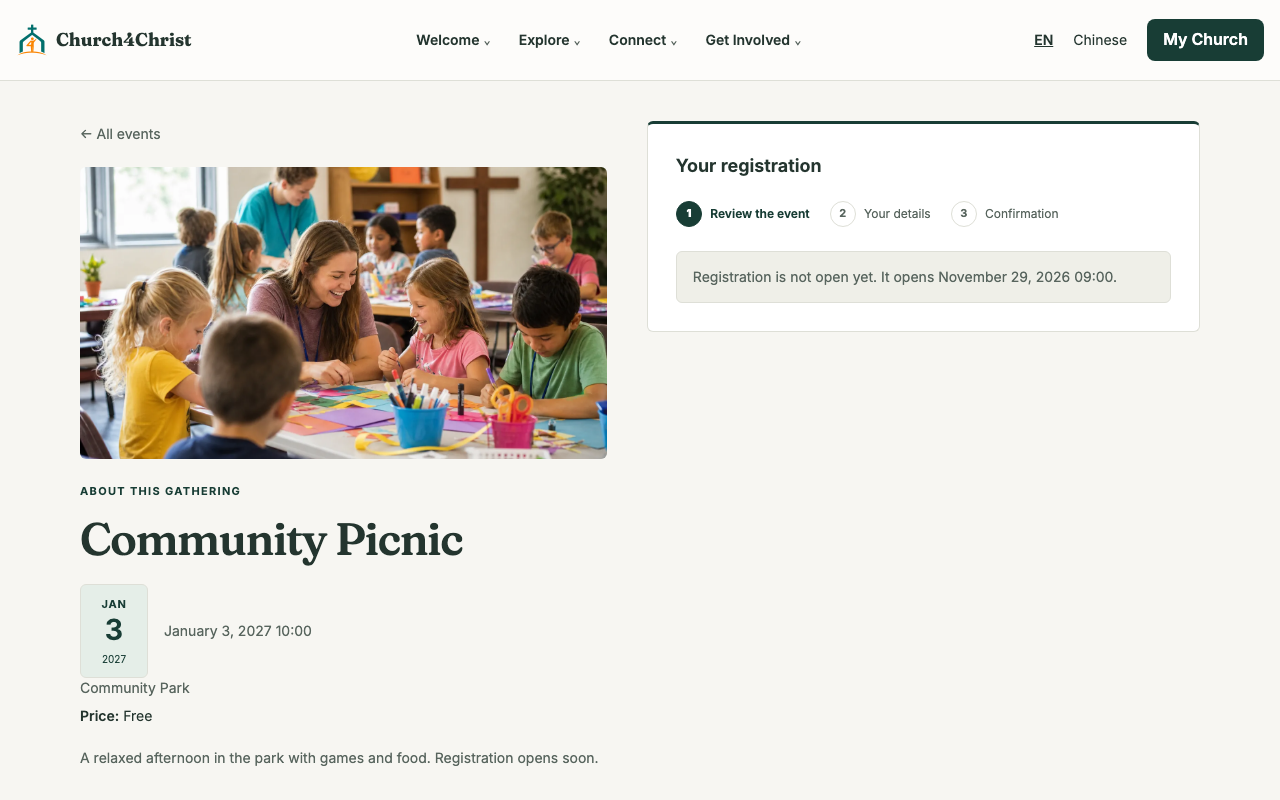
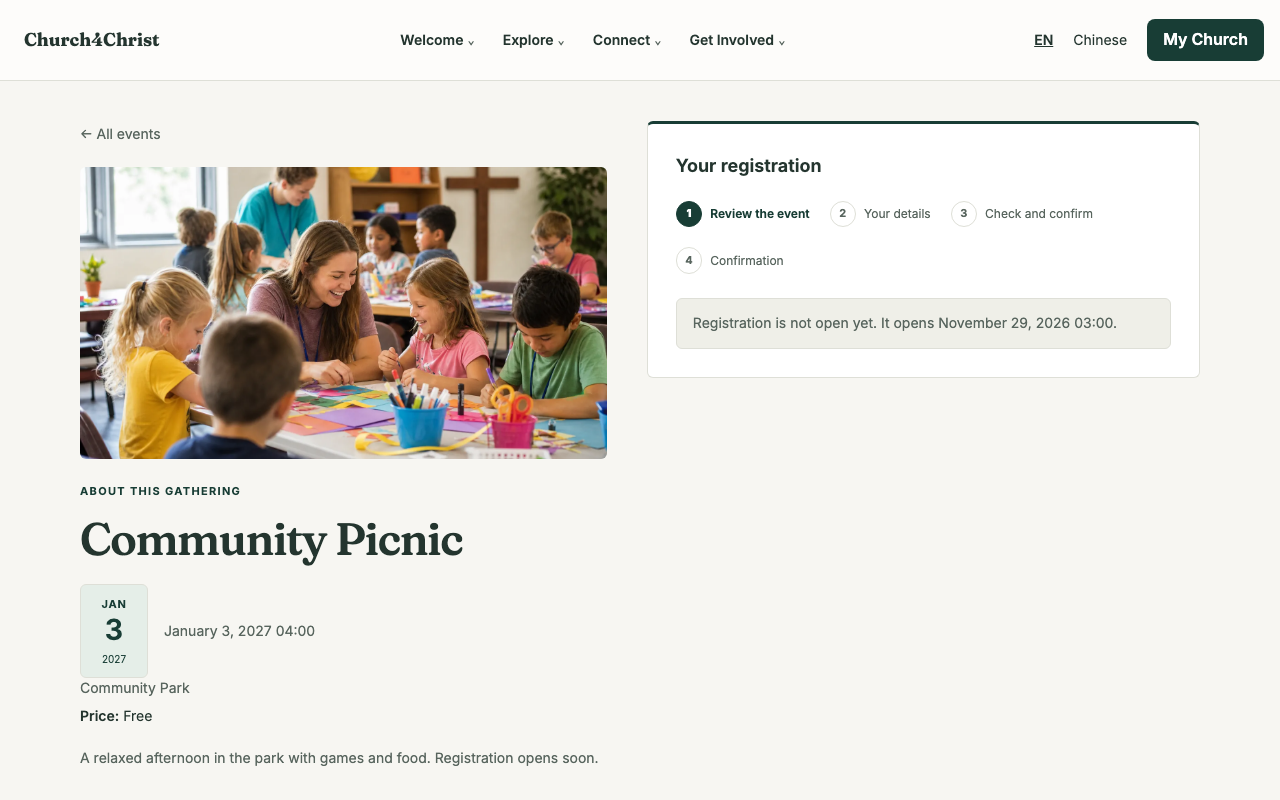
feat(registration): party and review captures, wider manage layout, one-place copy, church time on registration pages
The screenshot harness gains scripted steps (click, fill, submit, wait), a final-path check
and a selector anchor, and the registration rows now cover the party form, the review page,
the manage page (desktop and 375px) and the admin editor. Registration pages show event
times in the church's time zone like the emails do, the manage page lays details and
people side by side on wide screens, and a single remaining place reads naturally.

diff --git a/src/lib/regViewHtml.ts b/src/lib/regViewHtml.ts
@@ -210,8 +210,9 @@ export function renderRegistrationView(view: RegistrationView, o: RenderOptions)
     }${event.notes ? `<div class="reg-notes"><h2>${esc(L(lb, 'register.manage.notes'))}</h2><p>${esc(event.notes)}</p></div>` : ''}</section>`,
   );
 
-  // People.
-  out.push(
+  // People and answers sit side by side with the details on wide screens.
+  const side: string[] = [];
+  side.push(
     `<section class="reg-card"><h2>${esc(L(lb, 'register.manage.peopleHeading'))}</h2><ul class="reg-people">${view.attendees
       .map((a) => {
         if (!a.active) {
@@ -229,12 +230,13 @@ export function renderRegistrationView(view: RegistrationView, o: RenderOptions)
   );
 
   if (view.answers.length > 0) {
-    out.push(
+    side.push(
       `<section class="reg-card"><h2>${esc(L(lb, 'register.manage.answersHeading'))}</h2><dl class="reg-facts">${view.answers
         .map((a) => `<div><dt>${esc(a.label)}</dt><dd>${esc(a.value)}</dd></div>`)
         .join('')}</dl></section>`,
     );
   }
+  out.push(`<div class="reg-side">${side.join('')}</div>`);
 
   // Edit form.
   if (view.canEdit) {

diff --git a/test/e2e/registration.e2e.test.ts b/test/e2e/registration.e2e.test.ts
@@ -483,7 +483,7 @@ describe('Registration on D1: a family signs up, reviews, manages and cancels on
     await register(...MEMBERS[3]);
     const cookie = await sessionCookie(...SARAH);
     const formPage = await (await get('/en/register/920', { cookie })).text();
-    expect(formPage).toContain('Only 1 places left.');
+    expect(formPage).toContain('Only 1 place left.');
     const base = hiddenFieldsOf(formPage, '/en/register/920').filter(([n]) => n !== 'step');
     const review = await (await post('/en/register/920', formBody([...base, ['step', 'review'], ['person_name_1', 'Mia'], ['921', 'Main dish']]), { cookie })).text();
     expect(review).toContain('data-waitlist-party');

diff --git a/src/i18n/hi.ts b/src/i18n/hi.ts
@@ -2983,6 +2983,7 @@ const dict: Partial<Record<keyof typeof en, string>> = {
   'register.party.add': 'एक और व्यक्ति जोड़ें',
   'register.party.remove': 'हटाएँ',
   'register.seats.only': 'केवल {count} स्थान बचे हैं।',
+  'register.seats.one': 'केवल 1 स्थान बचा है।',
   'register.seats.largerWaitlist': 'बड़ा समूह एक साथ प्रतीक्षा सूची में जाएगा।',
   'register.manage.title': 'आपका पंजीकरण',
   'register.manage.confirmation': 'पुष्टि संख्या',

diff --git a/src/i18n/ko.ts b/src/i18n/ko.ts
@@ -2981,6 +2981,7 @@ const dict: Partial<Record<keyof typeof en, string>> = {
   'register.party.add': '다른 사람 추가',
   'register.party.remove': '삭제',
   'register.seats.only': '남은 자리는 {count}석뿐입니다.',
+  'register.seats.one': '남은 자리는 1석뿐입니다.',
   'register.seats.largerWaitlist': '인원이 더 많은 그룹은 함께 대기자 명단에 올라갑니다.',
   'register.manage.title': '내 등록',
   'register.manage.confirmation': '확인 번호',

diff --git a/src/i18n/ja.ts b/src/i18n/ja.ts
@@ -2981,6 +2981,7 @@ const dict: Partial<Record<keyof typeof en, string>> = {
   "register.party.add": "もう1人追加",
   "register.party.remove": "削除",
   "register.seats.only": "残りは{count}席のみです。",
+  "register.seats.one": "残りは1席のみです。",
   "register.seats.largerWaitlist": "人数が多いグループはまとめてキャンセル待ちになります。",
   "register.manage.title": "お申込み内容",
   "register.manage.confirmation": "確認番号",

diff --git a/src/i18n/fr.ts b/src/i18n/fr.ts
@@ -2982,6 +2982,7 @@ const dict: Partial<Record<keyof typeof en, string>> = {
   "register.party.add": "Ajouter une autre personne",
   "register.party.remove": "Retirer",
   "register.seats.only": "Il ne reste que {count} places.",
+  "register.seats.one": "Il ne reste qu’1 place.",
   "register.seats.largerWaitlist": "Un groupe plus important rejoindra ensemble la liste d’attente.",
   "register.manage.title": "Votre inscription",
   "register.manage.confirmation": "Numéro de confirmation",

diff --git a/src/i18n/de.ts b/src/i18n/de.ts
@@ -2981,6 +2981,7 @@ const dict: Partial<Record<keyof typeof en, string>> = {
   'register.party.add': 'Weitere Person hinzufügen',
   'register.party.remove': 'Entfernen',
   'register.seats.only': 'Nur noch {count} Plätze frei.',
+  'register.seats.one': 'Nur noch 1 Platz frei.',
   'register.seats.largerWaitlist': 'Eine größere Gruppe kommt gemeinsam auf die Warteliste.',
   'register.manage.title': 'Deine Anmeldung',
   'register.manage.confirmation': 'Bestätigungsnummer',

diff --git a/src/i18n/ms.ts b/src/i18n/ms.ts
@@ -2981,6 +2981,7 @@ const dict: Partial<Record<keyof typeof en, string>> = {
   'register.party.add': 'Tambah orang lain',
   'register.party.remove': 'Buang',
   'register.seats.only': 'Hanya tinggal {count} tempat.',
+  'register.seats.one': 'Hanya tinggal 1 tempat.',
   'register.seats.largerWaitlist': 'Kumpulan yang lebih besar akan masuk senarai menunggu bersama-sama.',
   'register.manage.title': 'Pendaftaran anda',
   'register.manage.confirmation': 'Nombor pengesahan',

diff --git a/src/i18n/vi.ts b/src/i18n/vi.ts
@@ -2980,6 +2980,7 @@ const dict: Partial<Record<keyof typeof en, string>> = {
   "register.party.add": "Thêm một người nữa",
   "register.party.remove": "Xóa",
   "register.seats.only": "Chỉ còn {count} chỗ.",
+  "register.seats.one": "Chỉ còn 1 chỗ.",
   "register.seats.largerWaitlist": "Một nhóm đông hơn sẽ cùng vào danh sách chờ.",
   "register.manage.title": "Đăng ký của bạn",
   "register.manage.confirmation": "Mã xác nhận",

diff --git a/src/i18n/es.ts b/src/i18n/es.ts
@@ -2981,6 +2981,7 @@ const dict: Partial<Record<keyof typeof en, string>> = {
   "register.party.add": "Añadir otra persona",
   "register.party.remove": "Quitar",
   "register.seats.only": "Solo quedan {count} plazas.",
+  "register.seats.one": "Solo queda 1 plaza.",
   "register.seats.largerWaitlist": "Un grupo más grande pasará junto a la lista de espera.",
   "register.manage.title": "Tu inscripción",
   "register.manage.confirmation": "Número de confirmación",

diff --git a/src/i18n/id.ts b/src/i18n/id.ts
@@ -2982,6 +2982,7 @@ const dict: Partial<Record<keyof typeof en, string>> = {
   "register.party.add": "Tambah orang lain",
   "register.party.remove": "Hapus",
   "register.seats.only": "Hanya tersisa {count} tempat.",
+  "register.seats.one": "Hanya tersisa 1 tempat.",
   "register.seats.largerWaitlist": "Rombongan yang lebih besar akan masuk daftar tunggu bersama.",
   "register.manage.title": "Pendaftaran Anda",
   "register.manage.confirmation": "Nomor konfirmasi",

diff --git a/src/i18n/pt.ts b/src/i18n/pt.ts
@@ -2981,6 +2981,7 @@ const dict: Partial<Record<keyof typeof en, string>> = {
   "register.party.add": "Adicionar outra pessoa",
   "register.party.remove": "Remover",
   "register.seats.only": "Restam apenas {count} vagas.",
+  "register.seats.one": "Resta apenas 1 vaga.",
   "register.seats.largerWaitlist": "Um grupo maior entrará junto na lista de espera.",
   "register.manage.title": "Sua inscrição",
   "register.manage.confirmation": "Número de confirmação",
